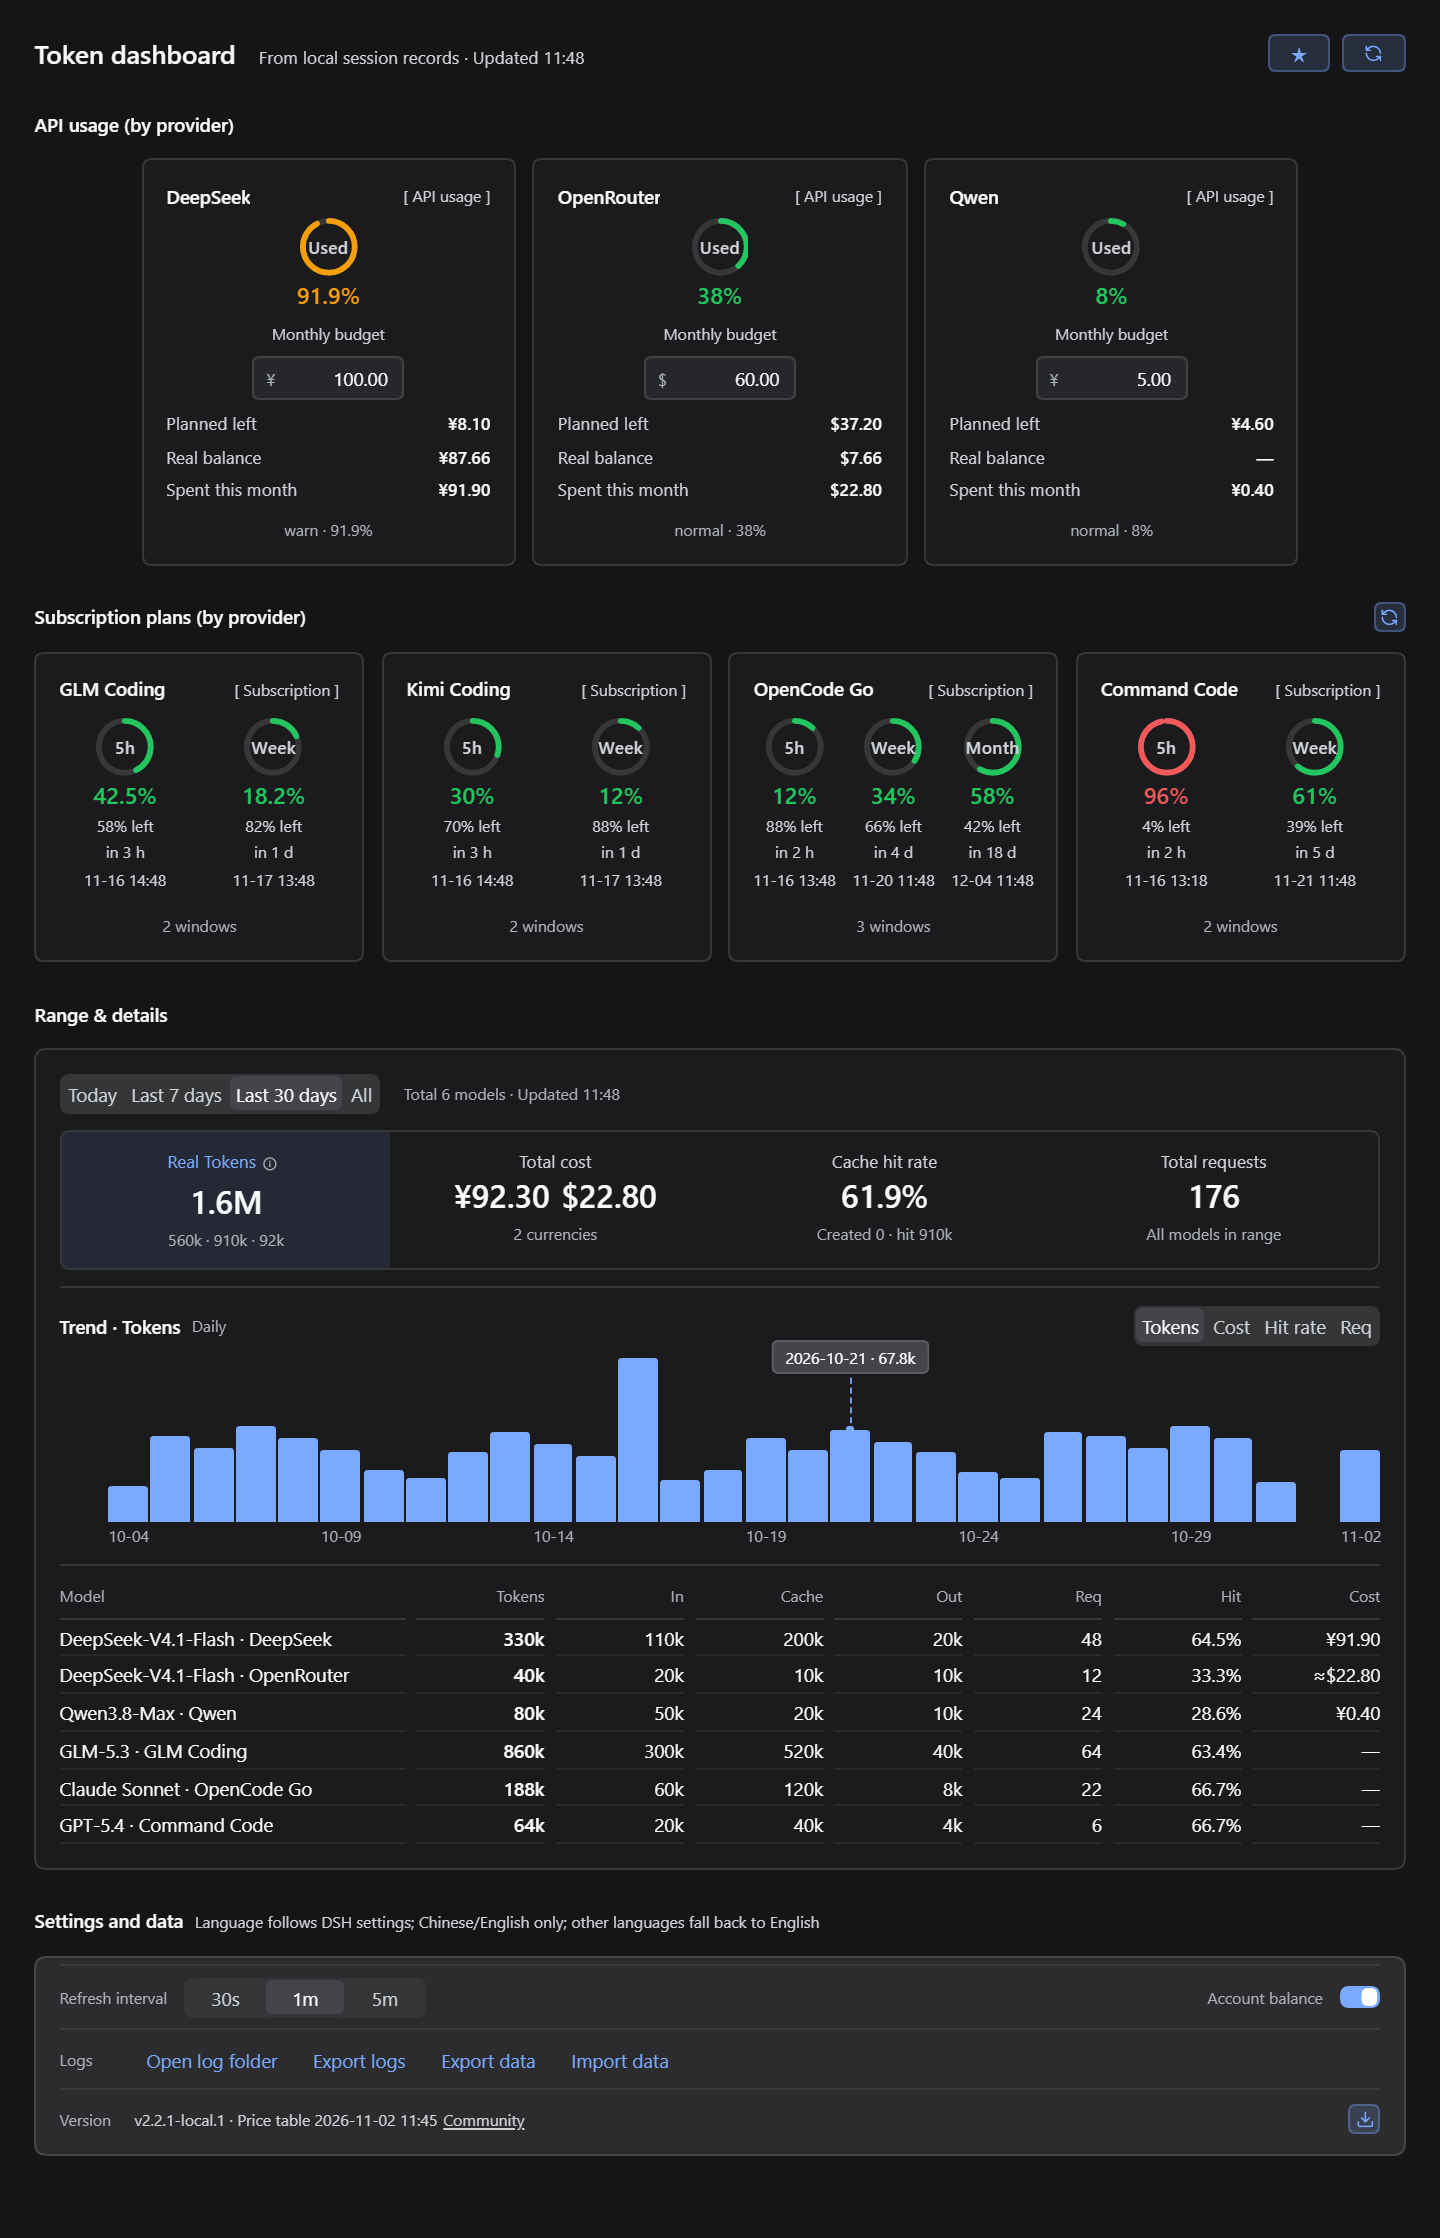
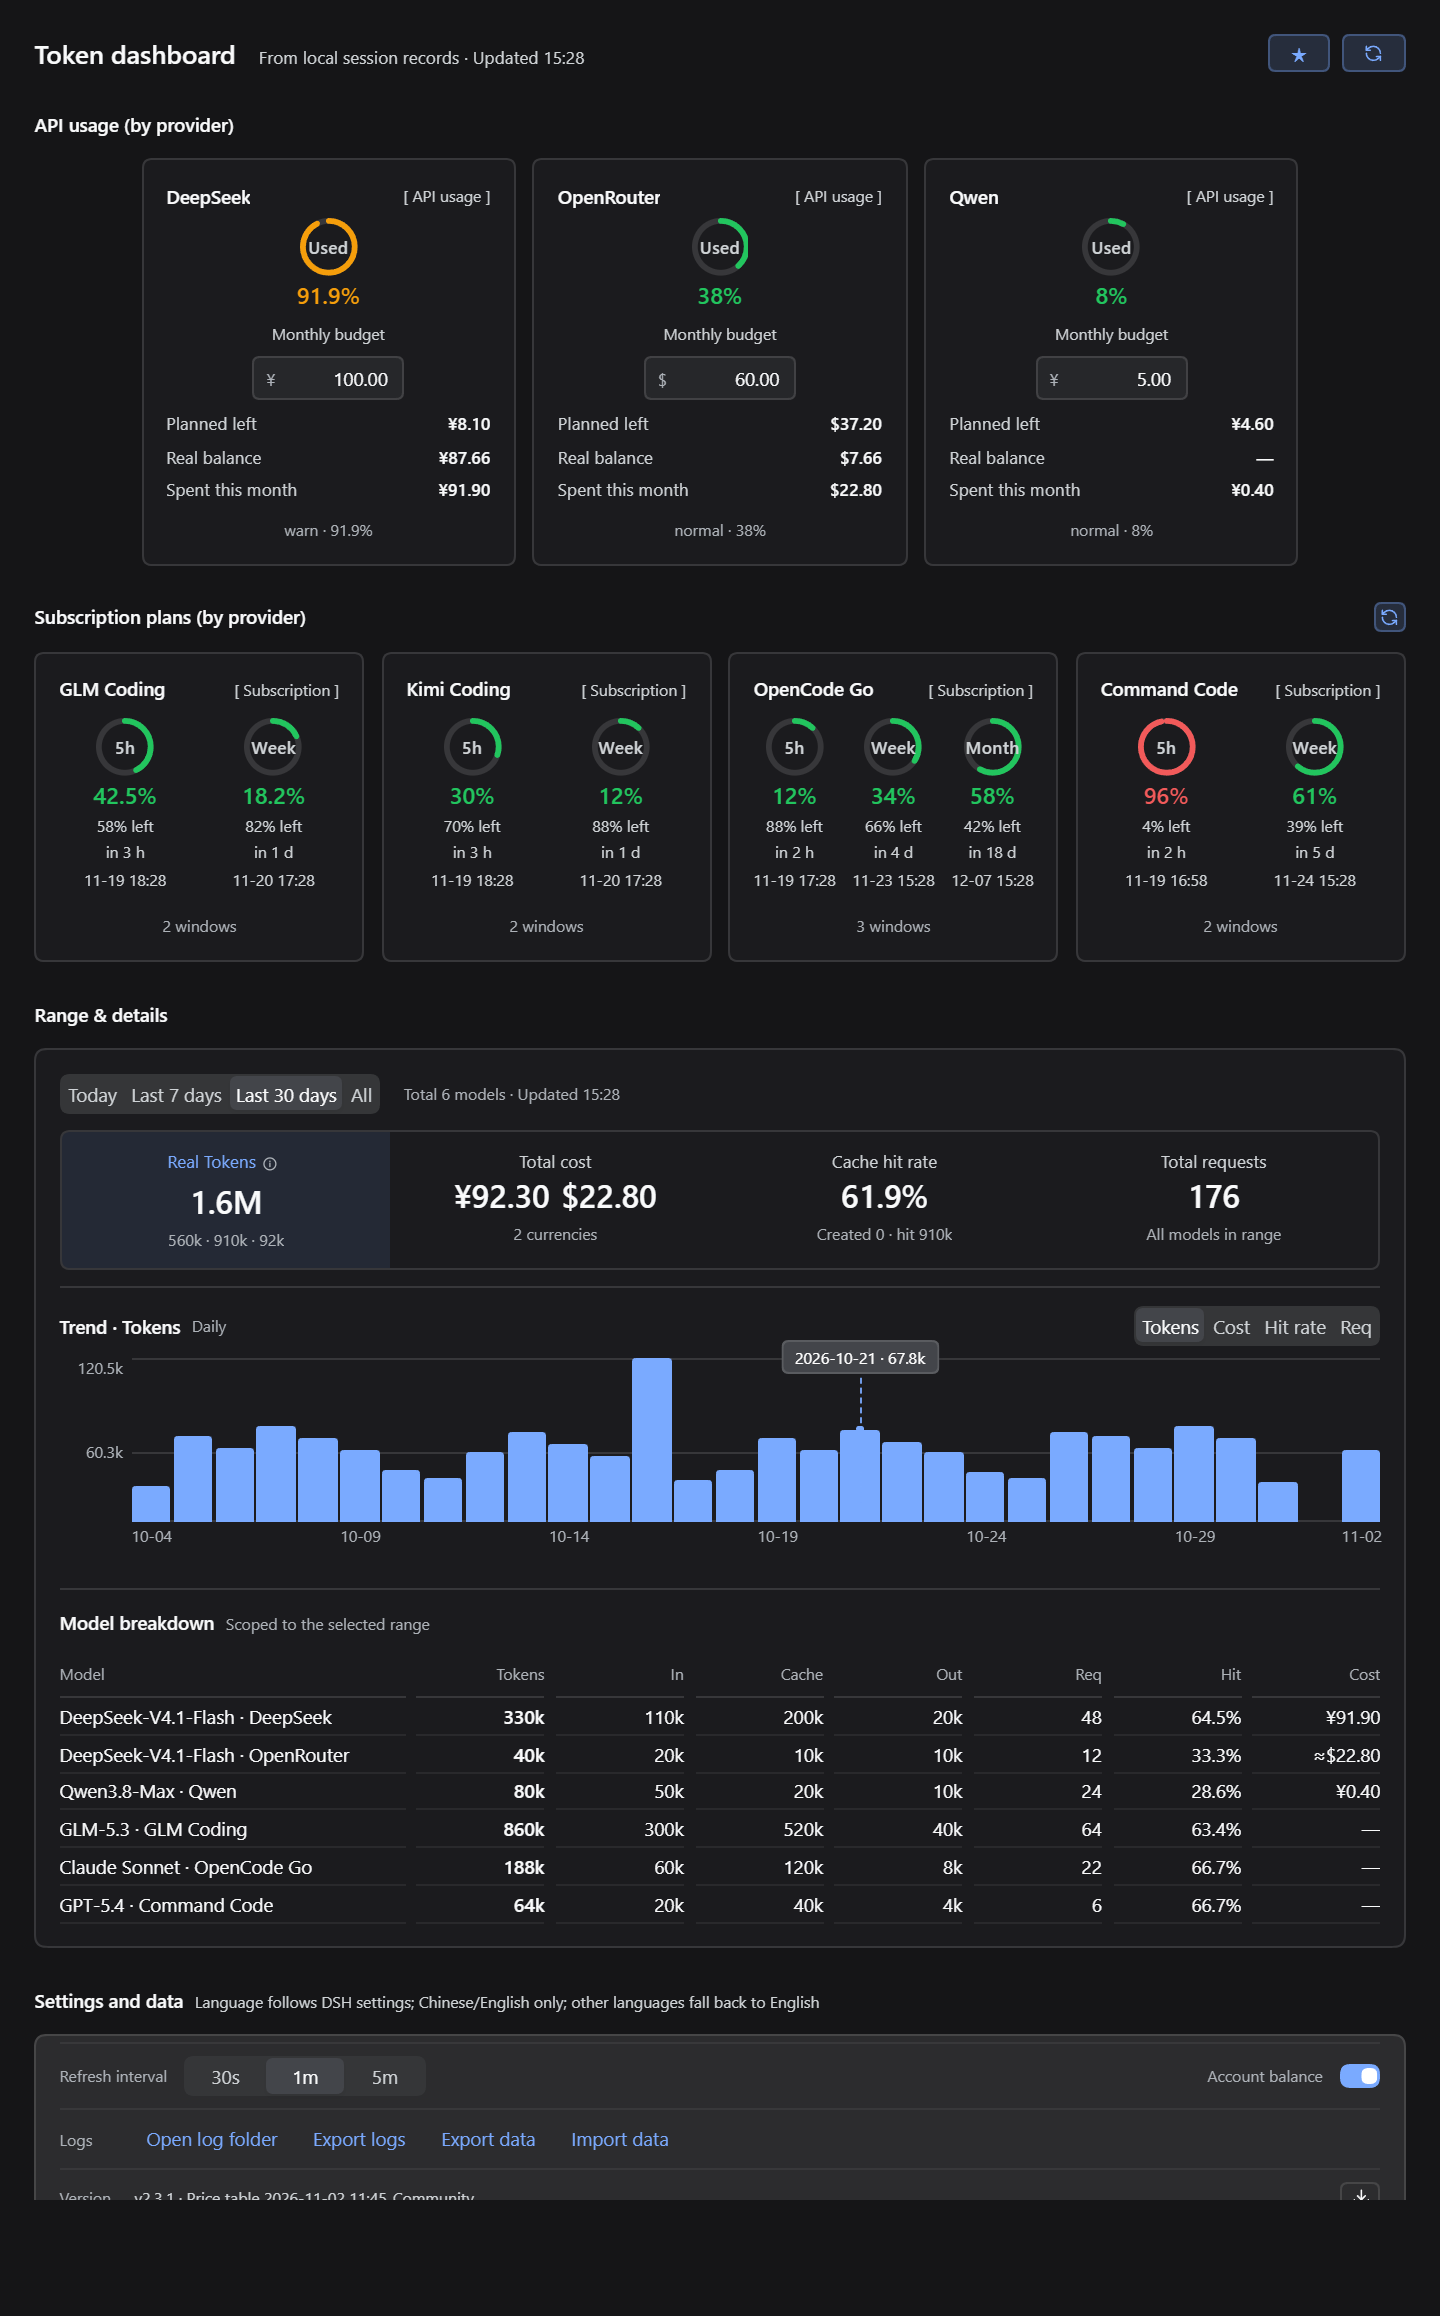
docs(readme): 同步 2.3.1 的 P3 截图与趋势图说明
2.3.1 改了整页看板的两处外观，README 与截图都落后于实际界面：

- 重出 P1/P2/P3 中英截图（docs/pic 与 docs/pic/en），
  恢复后的 Y 轴、三条网格线、模型明细区块标题现已可见
- README / README.en 的 P3 段落补「带纵坐标与网格线」
- 明细表条目提到独立「模型明细」区块
- 新增趋势图条目：轴在绘图区外、三档刻度随指标切换、
  命中率顶档固定 100%、单个 0% 日不拉低下限

仅文档与截图更新，未改代码、未改版本号。

diff --git a/README.en.md b/README.en.md
@@ -84,14 +84,15 @@ Screenshots use mock data so the full layout is visible at once.
 - Subscription windows use three slots: first left, second center, third right; two windows occupy the first two slots.
 - Model column is capped at 150; Tokens / requests / hit rate are right-aligned.
 
-**P3 · Full dashboard**: cards for 8 providers, a four-cell summary (cost / real tokens / requests / cache hit rate), usage trend bars, 8-column model breakdown and a settings capsule; the page owns its scrollbar at the window edge.
+**P3 · Full dashboard**: cards for 8 providers, a four-cell summary (cost / real tokens / requests / cache hit rate), usage trend bars with a labeled vertical axis and grid lines, a model breakdown section and a settings capsule; the page owns its scrollbar at the window edge.
 
 <p align="center">
   <img src="https://raw.githubusercontent.com/spartawhy117/dsh-token-dash/main/docs/pic/en/settings.png" alt="Full dashboard" />
 </p>
 
 - API usage card: budget input, planned balance, real balance, month-to-date spend; subscription card: one ring per window with remaining percentage and countdown.
-- Breakdown: model / Tokens / input / cache / output / requests / hit rate / cost; everything except the model column is right-aligned.
+- Trend chart: the vertical axis takes its own column outside the plot, with three ticks that follow the selected metric; three grid lines line up with those ticks; the hit-rate axis is pinned to 100% at the top, and a single 0% day cannot drag its floor back to zero.
+- Breakdown: its own section heading, then model / Tokens / input / cache / output / requests / hit rate / cost; everything except the model column is right-aligned.
 - Settings capsule: refresh interval + account-balance toggle; logs, export/import, price table and version below.
 - The settings section has an external "Settings and data" title above the capsule; the capsule itself keeps the refresh interval, logs/data controls and version row.
 - Spacing uses only 4 / 8 / 12 / 16 / 24 / 32; P2 and P3 share the same tokens.

diff --git a/README.md b/README.md
@@ -84,14 +84,15 @@
 - 订阅窗口固定三槽位：第 1 窗左、第 2 窗中、第 3 窗右；只有两窗时占前两个槽位。
 - 模型列上限 150，Tokens / 请求 / 命中右对齐；长模型名用省略号，悬浮可看全名。
 
-**P3 · 整页看板**：8 家供应商卡片、四格摘要带（总费用 / 真实 Tokens / 总请求数 / 缓存命中率）、用量趋势柱、8 列模型明细、底部设置胶囊；页面自己滚动，滚动条贴窗口右缘。
+**P3 · 整页看板**：8 家供应商卡片、四格摘要带（总费用 / 真实 Tokens / 总请求数 / 缓存命中率）、带纵坐标与网格线的用量趋势柱、模型明细区块、底部设置胶囊；页面自己滚动，滚动条贴窗口右缘。
 
 <p align="center">
   <img src="https://raw.githubusercontent.com/spartawhy117/dsh-token-dash/main/docs/pic/settings.png" alt="整页看板" />
 </p>
 
 - API 用量卡：预算输入、计划余额、真实余额、本月已花；订阅卡：每个窗口一个环 + 剩余百分比 + 倒计时。
-- 明细表：模型 / Tokens / 输入 / 缓存 / 输出 / 请求 / 命中 / 费用；除模型列外全部右对齐。
+- 趋势图：纵坐标独立占左侧一列（在绘图区之外），三档刻度随指标切换；上 / 中 / 下三条网格线与刻度对齐；命中率轴顶档固定 100%，单个 0% 日不会把下限拉回 0。
+- 明细表：独立「模型明细」区块，模型 / Tokens / 输入 / 缓存 / 输出 / 请求 / 命中 / 费用；除模型列外全部右对齐。
 - 设置区：胶囊外是「设置与数据管理」区块标题；胶囊内第一行刷新间隔 + 账户余额开关，下面是日志、导出导入、价格表与版本。
 - 间距只使用 4 / 8 / 12 / 16 / 24 / 32 六档，P2 / P3 同一套 token。
 
